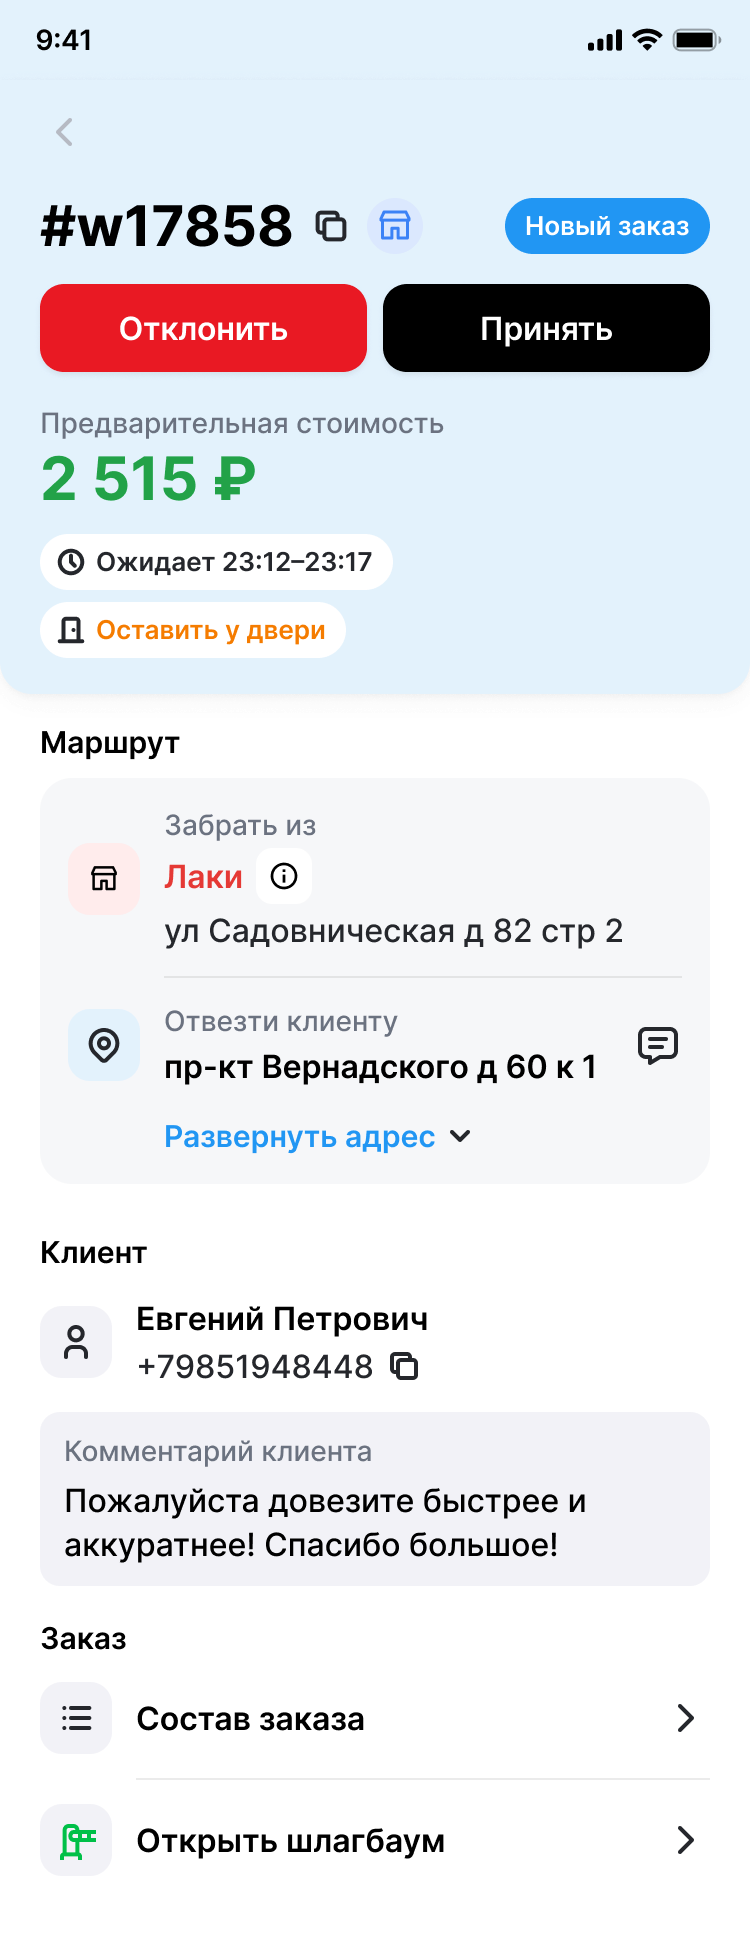
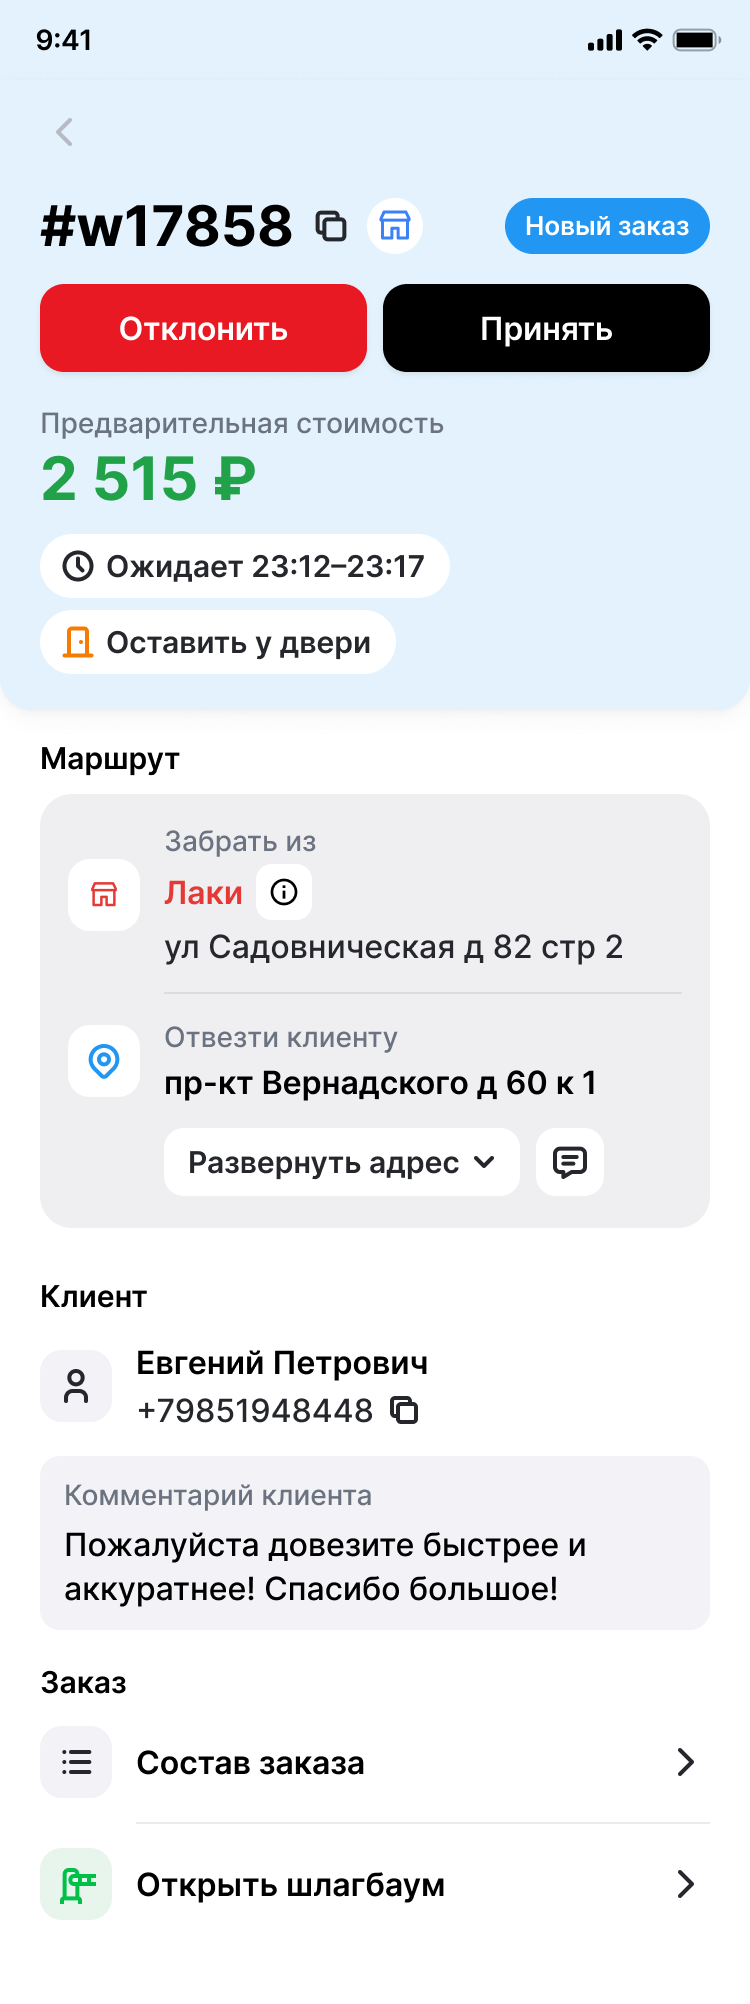
Опрос: читаемые чипы и плашки, настоящая карта OpenStreetMap в варианте с картой

diff --git a/index.html b/index.html
@@ -4,7 +4,7 @@
 <meta charset="utf-8">
 <meta name="viewport" content="width=device-width, initial-scale=1, viewport-fit=cover">
 <meta name="theme-color" content="#ffffff">
-<meta name="wc-build" content="20261006-023437">
+<meta name="wc-build" content="20261006-163027">
 <title>Какой экран заказа удобнее</title>
 <link rel="preconnect" href="https://fonts.googleapis.com">
 <link rel="stylesheet" href="https://fonts.googleapis.com/css2?family=Inter:wght@400;500;600;700;800&display=swap">
@@ -254,7 +254,7 @@ p{margin:0 0 12px;color:#3C3C43}
 "use strict";
 var FORM_ACTION="https://docs.google.com/forms/d/e/1FAIpQLSdamXvF4miEZs1m4J5Uqi57x-DYyqc1l4xskTmM5qVJPabpvw/formResponse";
 var E={"name": "entry.1433020472", "transport": "entry.1463450199", "tenure": "entry.1316740260", "events": "entry.1811349607", "story": "entry.1464482797", "like": "entry.10806726", "ryabit": "entry.620689173", "r_A": "entry.531343616", "screens": "entry.435121953", "choice": "entry.659315465", "why": "entry.401634462", "wish": "entry.809589968", "seconds": "entry.189630847", "ver": "entry.748552560", "raw": "entry.1637766922", "r_D3": "entry.1648588287", "r_D5": "entry.2064450811", "r_D4": "entry.663186859"};
-var SCREENS=[{"key": "A", "name": "Как сейчас", "img": "img/a.png", "base": true, "white": true, "w": 750, "h": 2104}, {"key": "D3", "name": "Д3 Цветная шапка", "img": "img/d3.png", "bar": "img/d3bar.png", "white": true, "w": 750, "h": 1960, "bw": 750, "bh": 192}, {"key": "D5", "name": "Д5 Карта", "img": "img/d5.png", "bar": "img/d5bar.png", "like": ["Удобно, что есть карта"], "dislike": ["Карта занимает место"], "w": 750, "h": 2518, "bw": 750, "bh": 153}, {"key": "D4", "name": "Д4 Билет", "img": "img/d4.png", "w": 750, "h": 2088}];
+var SCREENS=[{"key": "A", "name": "Как сейчас", "img": "img/a.png", "base": true, "white": true, "w": 750, "h": 2104}, {"key": "D3", "name": "Д3 Цветная шапка", "img": "img/d3.png", "bar": "img/d3bar.png", "white": true, "w": 750, "h": 2004, "bw": 750, "bh": 192}, {"key": "D5", "name": "Д5 Карта", "img": "img/d5.png", "bar": "img/d5bar.png", "like": ["Удобно, что есть карта"], "dislike": ["Карта занимает место"], "w": 750, "h": 2432, "bw": 750, "bh": 153}, {"key": "D4", "name": "Д4 Билет", "img": "img/d4.png", "w": 750, "h": 2124}];
 var LIKE=["Сразу видно цену","Понятно, откуда и куда","Крупно, легко читать","Кнопки под рукой","Удобно позвонить","Спокойно, не рябит","Ничего лишнего","Привычно"];
 var DISLIKE=["Мелко, трудно читать","Слишком много всего","Долго искать нужное","Кнопки далеко","Не видно цену","Непонятно, откуда и куда","Пёстро, рябит","Непривычно"];
 var KEY="wc-survey5";
